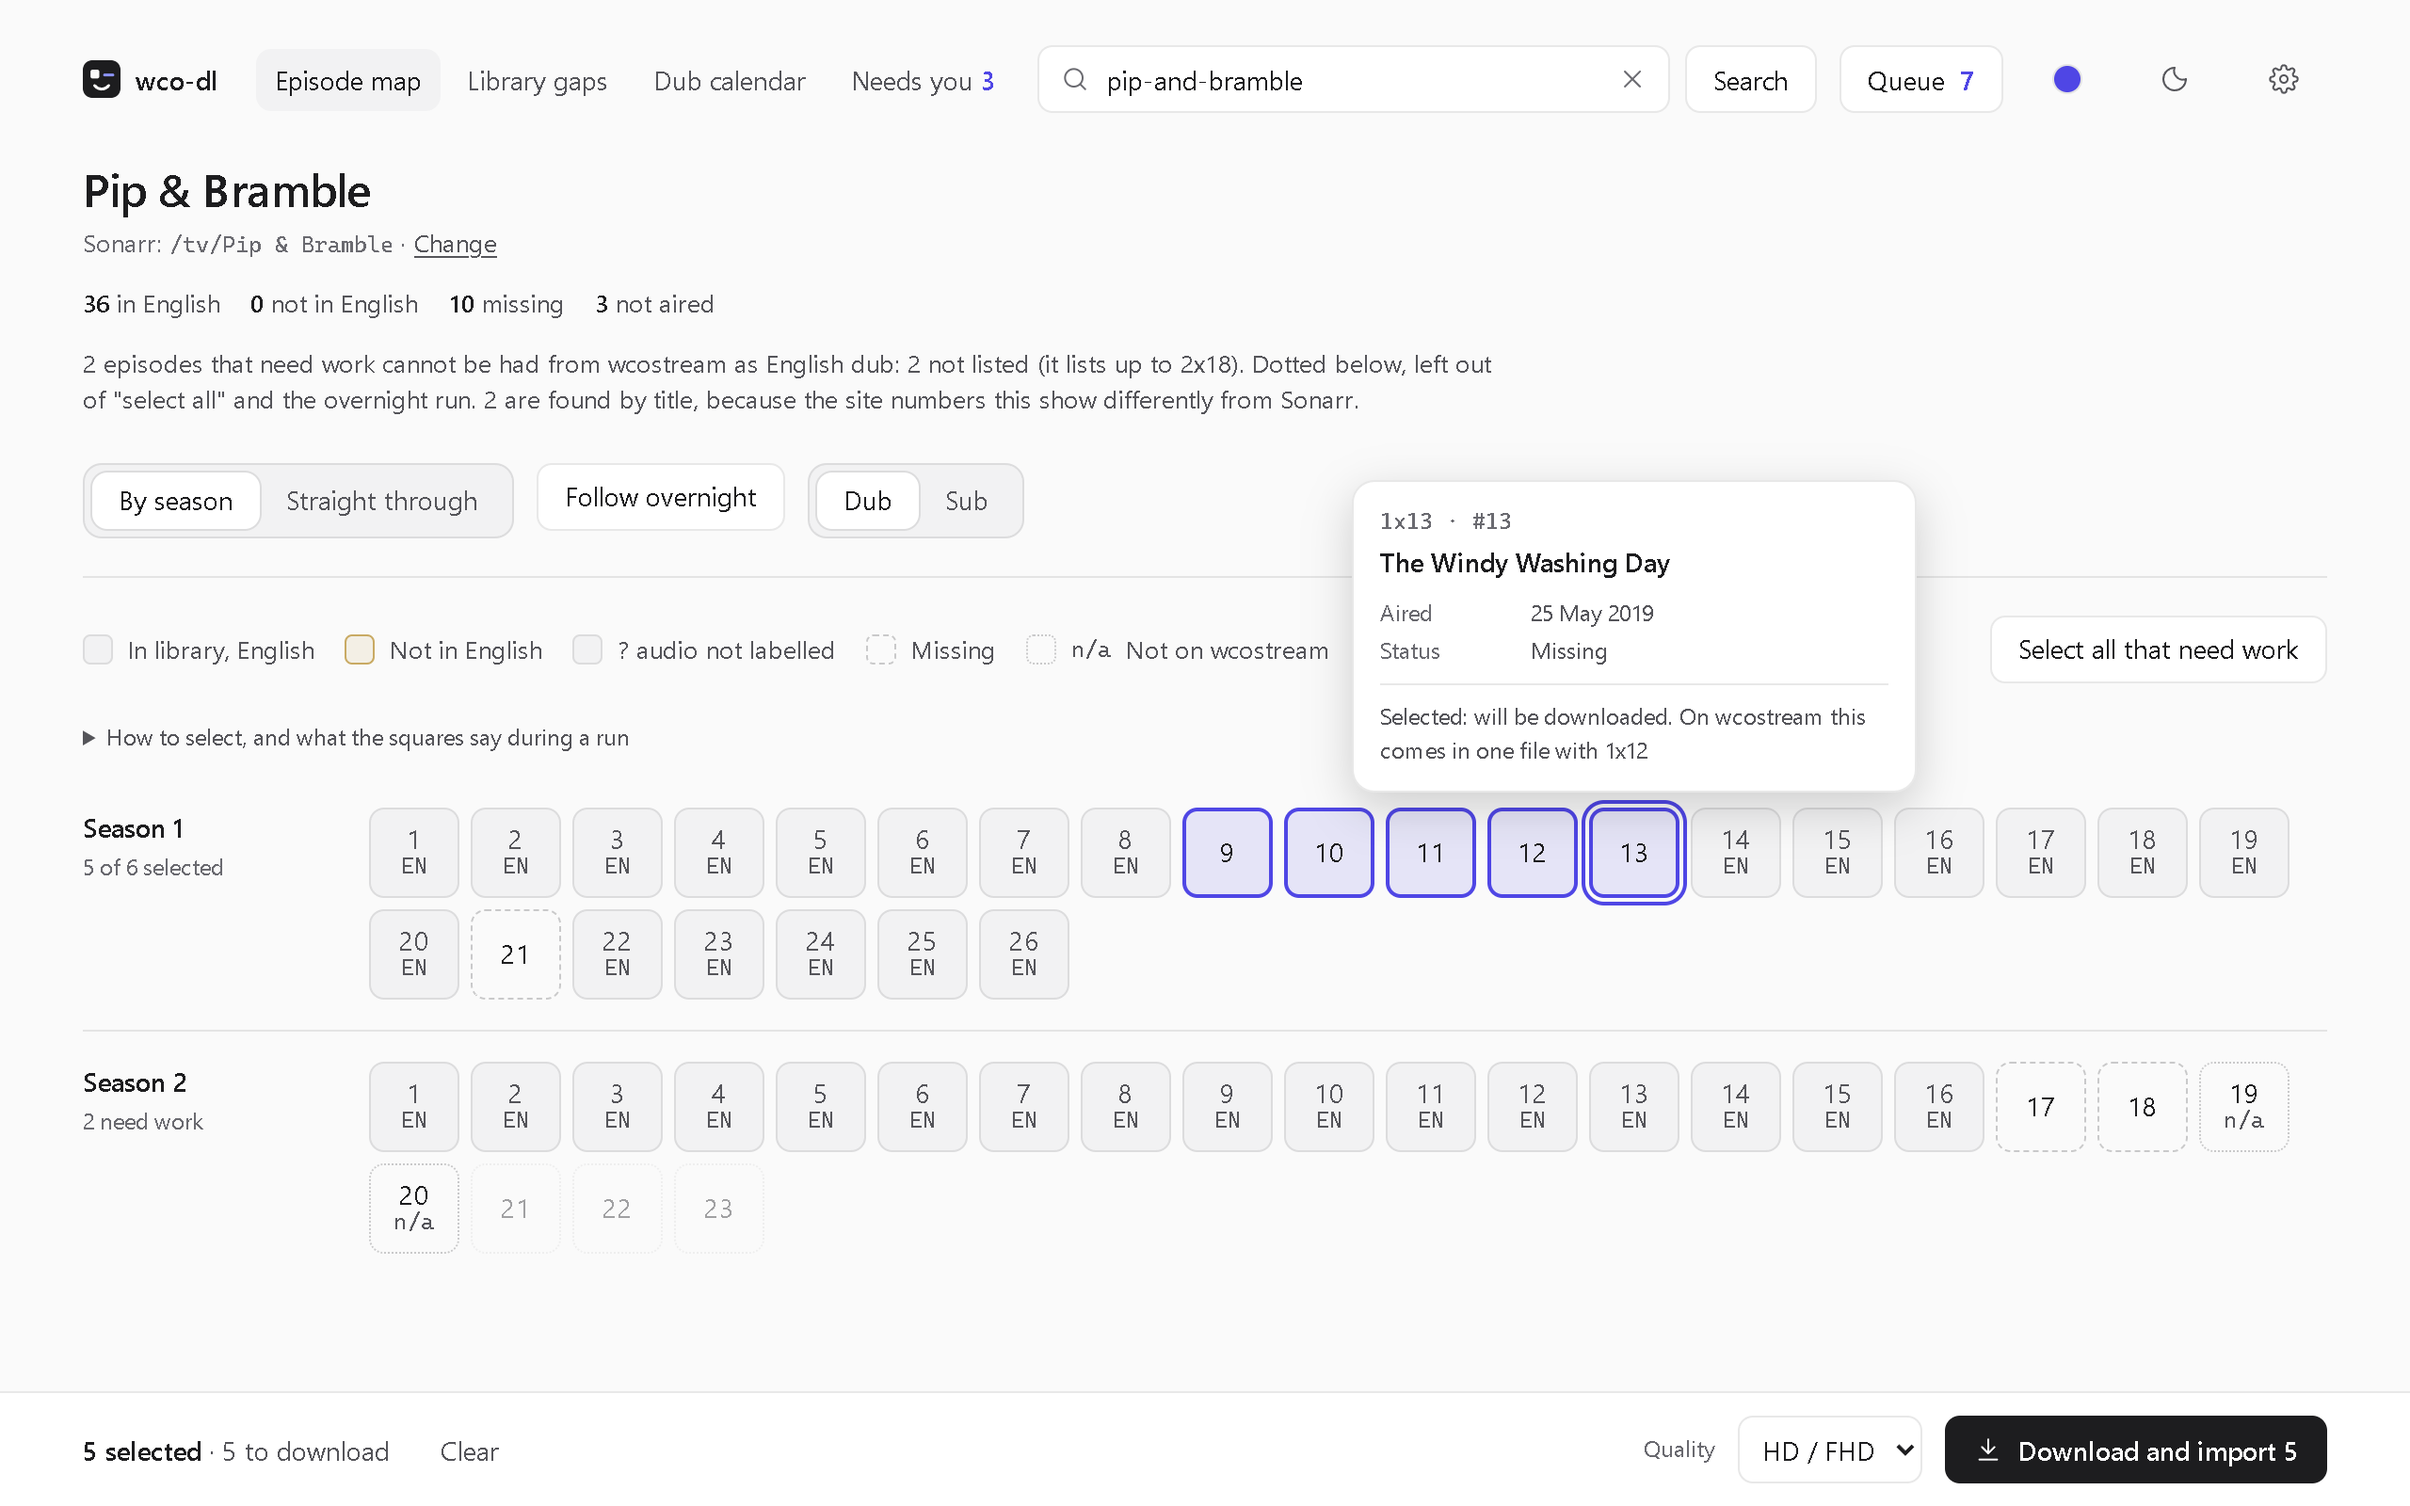
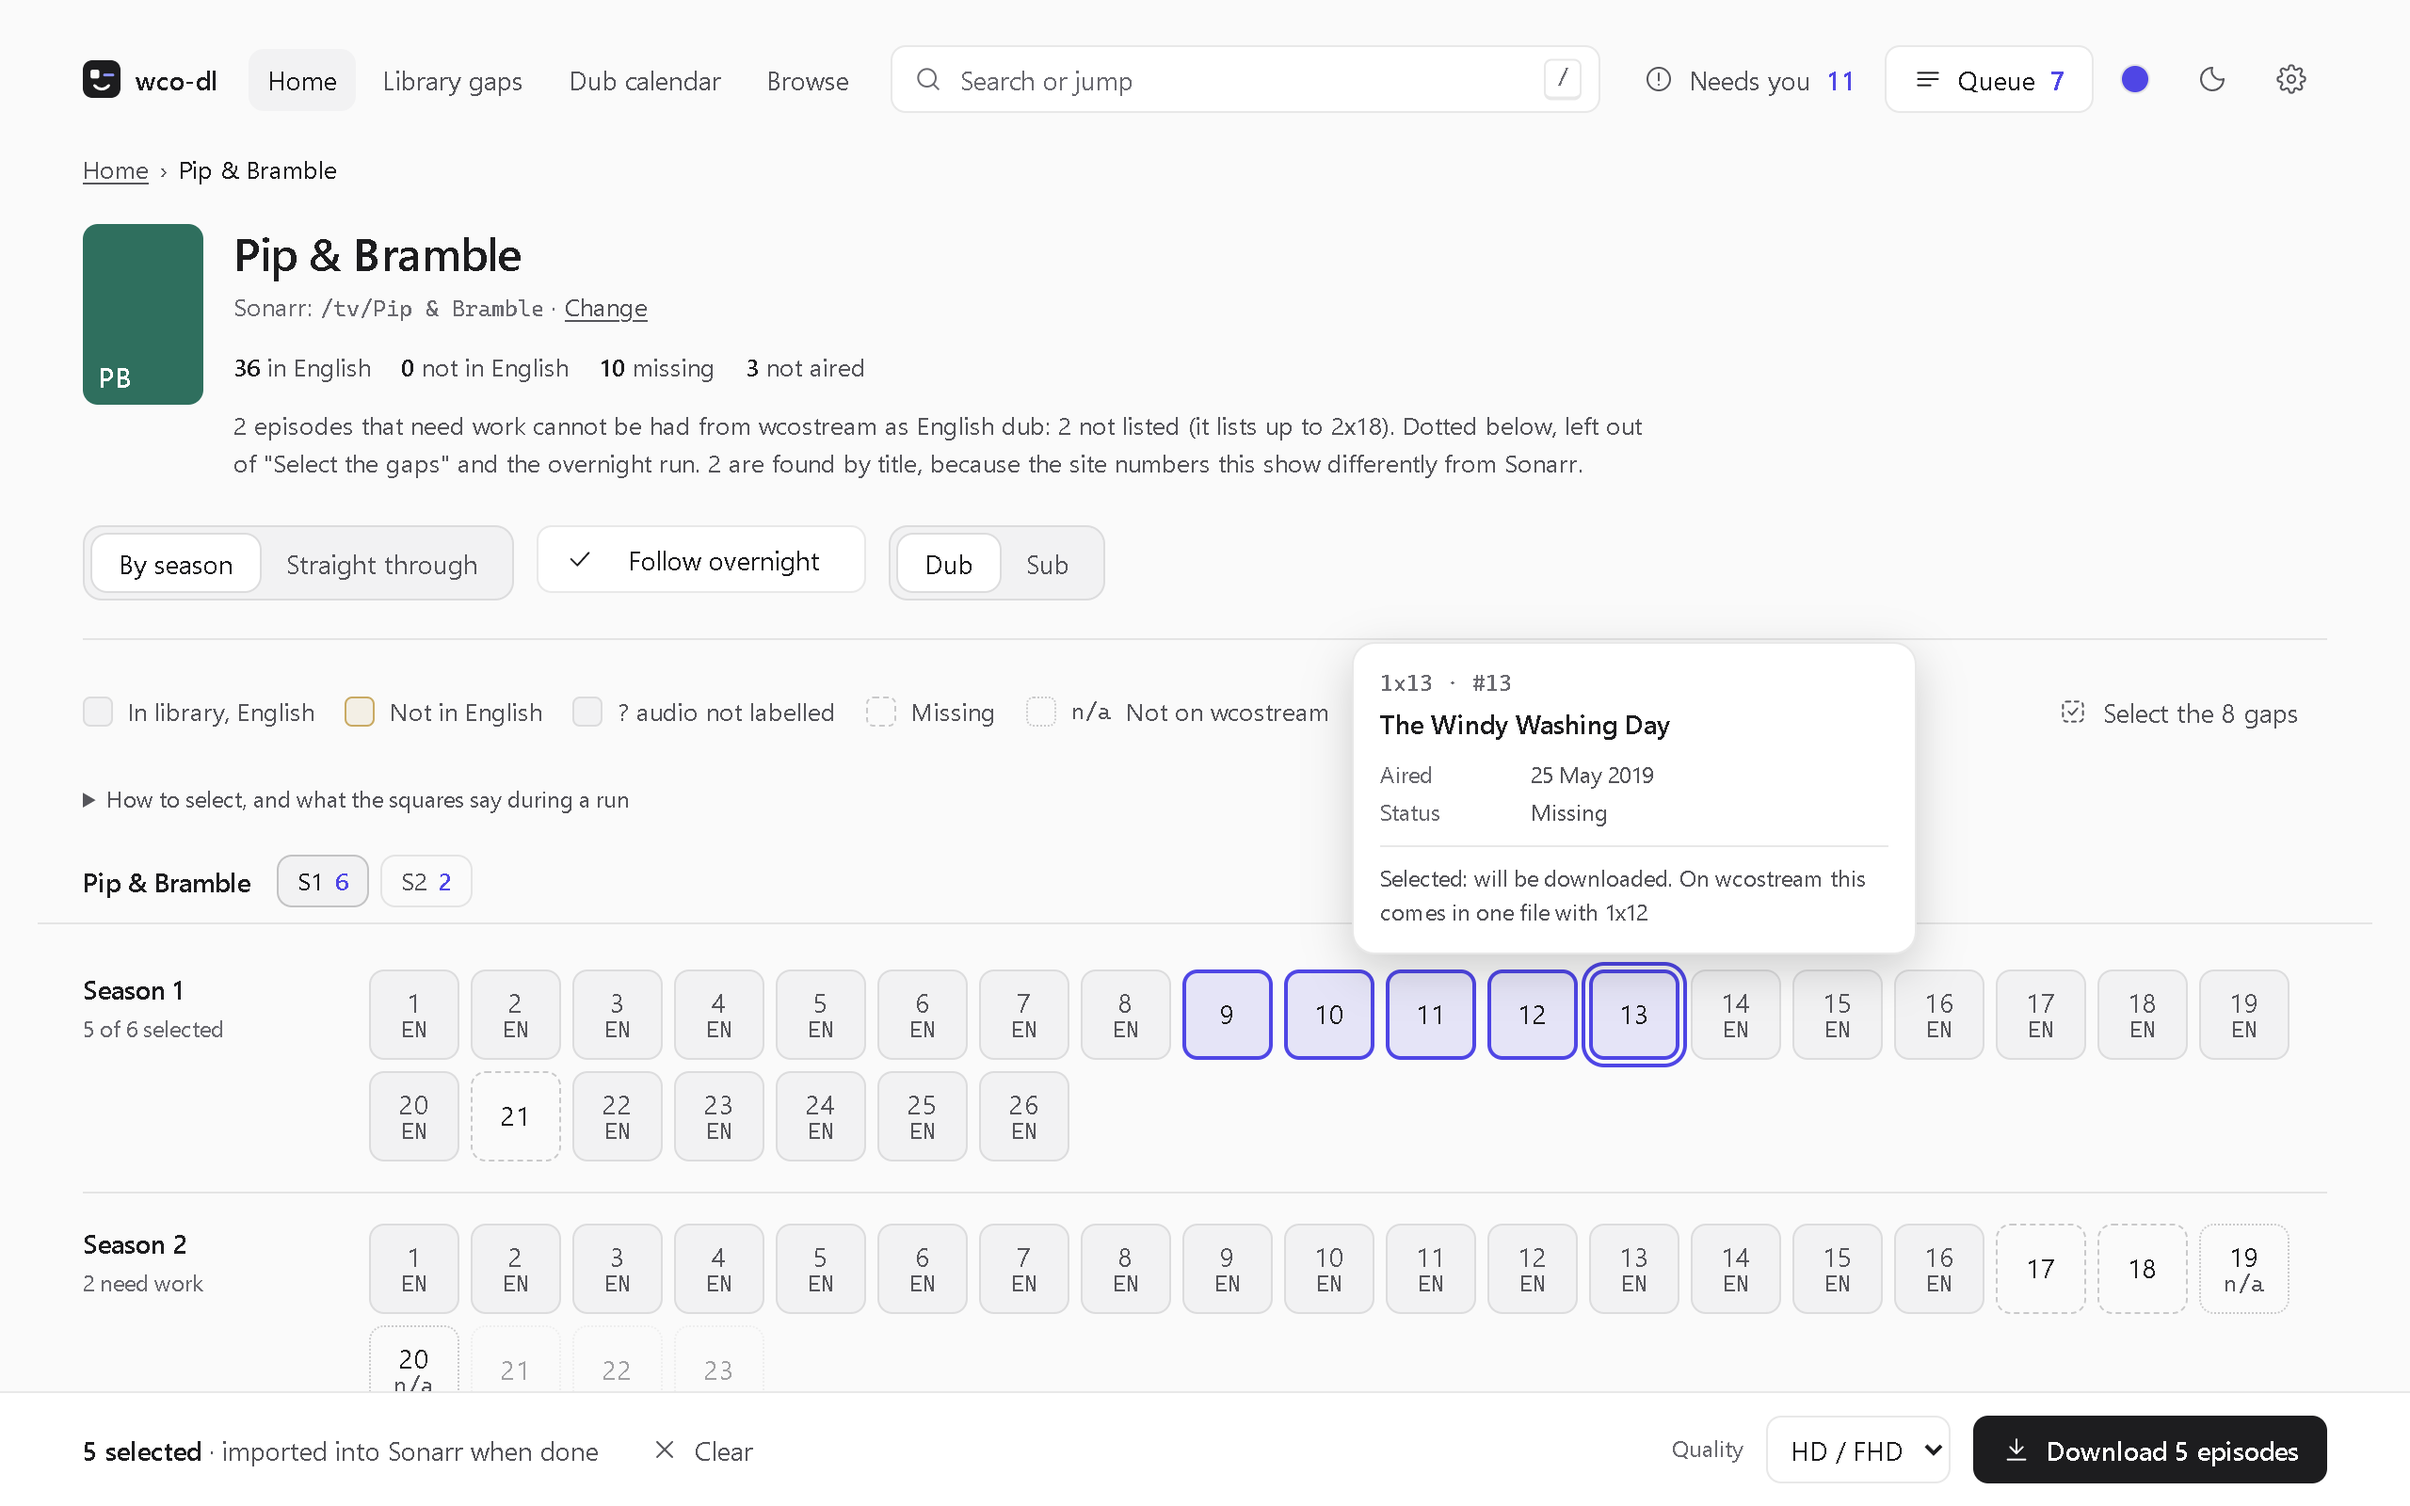
Quick start in three steps: the ready-made image, one folder, and the setup page
The compose file uses the published image instead of building from source, and takes DOWNLOADS_DIR for
a real folder Sonarr can also see (left unset, downloads stay in the Docker volume as before). The
README and Docker guide no longer ask anyone to edit Sonarr settings into .env: the setup page does
that and tests it. ADMIN_PASSWORD is documented. Screenshots retaken with the new header, posters,
grouped "Needs you" and the setup page.

diff --git a/ReadMe.md b/ReadMe.md
@@ -10,23 +10,29 @@ wco-dl is a Command-line program and web application to download cartoons/anime/
 
 ## Quick Start with Docker
 
-The easiest way to run WCO-DL is with Docker Compose:
+1. Download [`docker-compose.yml`](docker-compose.yml) into an empty folder. Next to it, make a file called `.env`
+   with one line that says where downloads go. Use a folder Sonarr can also see:
 
-```bash
-# Copy environment file
-cp .env.example .env
+   ```bash
+   DOWNLOADS_DIR=/path/to/downloads/wco-dl
+   ```
 
-# Edit .env with your settings (OUTPUT_BASE at minimum)
-nano .env
+2. Start it. This fetches the ready-made image (`ghcr.io/ozzymousprime/wco-dl:latest`), so nothing is built:
 
-# Start the services
-docker compose up -d
+   ```bash
+   docker compose up -d
+   ```
 
-# Access the web interface at http://localhost:3000
-# Swagger API docs are at http://localhost:3000/api
-```
+3. Open http://localhost:3000/map.html. The first visit shows the setup page: paste Sonarr's address and API key,
+   and it tests the connection, checks that Sonarr can see the download folder, and says what to fix if not.
 
-See [DOCKER.md](DOCKER.md) for detailed setup instructions.
+![The setup page: Sonarr, the download folder and the Cloudflare helper, each with a tick or what to fix](docs/screenshots/setup.png)
+
+The same page is **Settings** afterwards (the cog in the header). Nothing else needs editing by hand; every
+variable in [`.env.example`](.env.example) is optional. Without Sonarr the original downloader page at
+http://localhost:3000 still works. Swagger API docs are at http://localhost:3000/api.
+
+See [DOCKER.md](DOCKER.md) for more, including building from source.
 
 ## What it looks like
 
@@ -221,7 +227,7 @@ Webhook URLs that resolve to loopback (`127.0.0.0/8`, `::1`), link-local (`169.2
 
 ## Environment Variables
 
-The server is configured through environment variables, set in `.env` when using Docker Compose. The main ones are listed below; see [DOCKER.md](DOCKER.md#environment-variables) and [`.env.example`](.env.example) for the full list, including the Byparr proxy and browser settings.
+The server is configured through environment variables, set in `.env` when using Docker Compose. What is saved on the Settings page wins over them. The main ones are listed below; see [DOCKER.md](DOCKER.md#environment-variables) and [`.env.example`](.env.example) for the full list, including the Byparr proxy and browser settings.
 
 | Variable | Purpose | Default |
 | --- | --- | --- |
@@ -229,8 +235,10 @@ The server is configured through environment variables, set in `.env` when using
 | `SERVER_PORT` | Web UI and API port | `3000` |
 | `CORS_ORIGIN` | Origin allowed to call the API from a browser | `http://localhost:3000` |
 | `BYPARR_URL` | Byparr instance used for Cloudflare bypass (also read by the Python CLI) | `http://localhost:8191`; `http://byparr:8191` in Docker |
-| `SONARR_URL` / `SONARR_API_KEY` | Sonarr import after each download; leave the key empty to disable | Unset |
-| `SONARR_IMPORT_BASE` | Where Sonarr sees `OUTPUT_BASE`, when Sonarr runs outside this container | Unset (same path) |
+| `DOWNLOADS_DIR` | Docker Compose only: the folder on the host where downloads are saved | A Docker volume |
+| `SONARR_URL` / `SONARR_API_KEY` | Sonarr's address and key. Usually set on the Settings page instead, which tests them first | Unset |
+| `SONARR_IMPORT_BASE` | Where Sonarr sees `OUTPUT_BASE`, when Sonarr runs outside this container. Also on the Settings page | Unset (same path) |
+| `ADMIN_PASSWORD` | Locks the Settings page. Can also be set on the page | Unset (open) |
 | `TZ` | Time zone for the overnight window | `UTC` |
 | `NOTIFY_URL` / `NOTIFY_TOKEN` | POST a summary `{source, title, body, url}` after the night's runs; the token goes in `x-notify-token` | Unset |
 | `PUBLIC_URL` | This app's address as you open it, for the link in that summary | Unset |

diff --git a/DOCKER.md b/DOCKER.md
@@ -21,30 +21,38 @@ This guide covers running WCO-DL with Docker Compose, which includes:
 
 ## Quick Start
 
-1. **Copy environment file:**
+1. **Say where downloads go.** Next to `docker-compose.yml`, make a file called `.env` (or copy `.env.example`)
+   and set a folder on this machine that Sonarr can also see:
    ```bash
-   cp .env.example .env
+   DOWNLOADS_DIR=/path/to/downloads/wco-dl
    ```
 
-2. **Edit `.env`** with your settings (at minimum, set `OUTPUT_BASE`):
+2. **Start the services.** This fetches the ready-made image `ghcr.io/ozzymousprime/wco-dl:latest`:
    ```bash
-   OUTPUT_BASE=/path/to/your/downloads
+   docker compose up -d
    ```
 
-3. **Start the services:**
-   ```bash
-   docker-compose up -d
-   ```
-
-4. **Access the web interface:**
-   - Open http://localhost:3000 in your browser
+3. **Open http://localhost:3000/map.html.** The first visit shows the setup page. Paste Sonarr's address and API
+   key there: it tests the connection, checks that Sonarr can see the download folder (by writing a small file
+   and asking Sonarr to find it), and checks the Cloudflare helper. The same page is Settings afterwards.
+   - Without Sonarr, the original downloader page at http://localhost:3000 still works
    - Swagger API docs: http://localhost:3000/api
+
+To build from source instead of using the image, replace the `image:` line under `app:` in `docker-compose.yml`
+with `build: .` and run `docker compose up -d --build`.
 
 ## Environment Variables
 
 ### Required
 
-- `OUTPUT_BASE`: Where to save downloaded files (default: `/data/downloads`)
+None. Sonarr's address and key, and where Sonarr sees the download folder, are set on the Settings page, and what
+is saved there wins over `.env`. They are kept in `connections.json` in the config volume.
+
+### Folders
+
+- `DOWNLOADS_DIR`: The folder on this machine where downloads are saved (Docker Compose only; default: a Docker volume)
+- `OUTPUT_BASE`: The same folder as the container sees it (default: `/data/downloads`). Rarely needs changing
+- `ADMIN_PASSWORD`: Locks the Settings page (default: unset; can also be set on the page)
 
 ### Optional
 
@@ -206,8 +214,8 @@ shm_size: "1gb"
 
 ### Downloads not appearing in Sonarr
 
-1. Check that `OUTPUT_BASE` matches your Sonarr download folder
-2. Verify `SONARR_URL` and `SONARR_API_KEY` are correct
+1. Open Settings (the cog in the header) and press "Test again": it tests Sonarr and whether Sonarr can see the download folder
+2. If the folder line fails, `DOWNLOADS_DIR` must be a folder Sonarr can reach too; then say on that page where Sonarr sees it
 3. Check app logs: `docker-compose logs app`
 
 ### Can't access web interface
